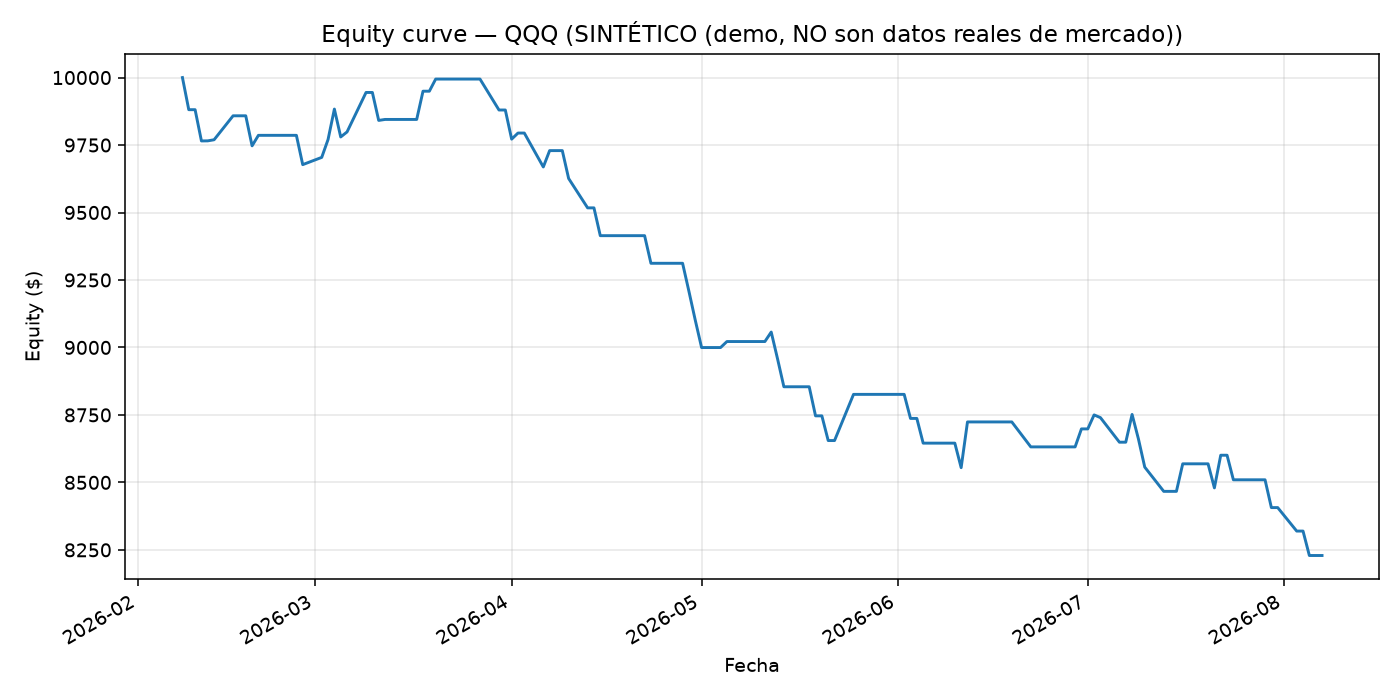
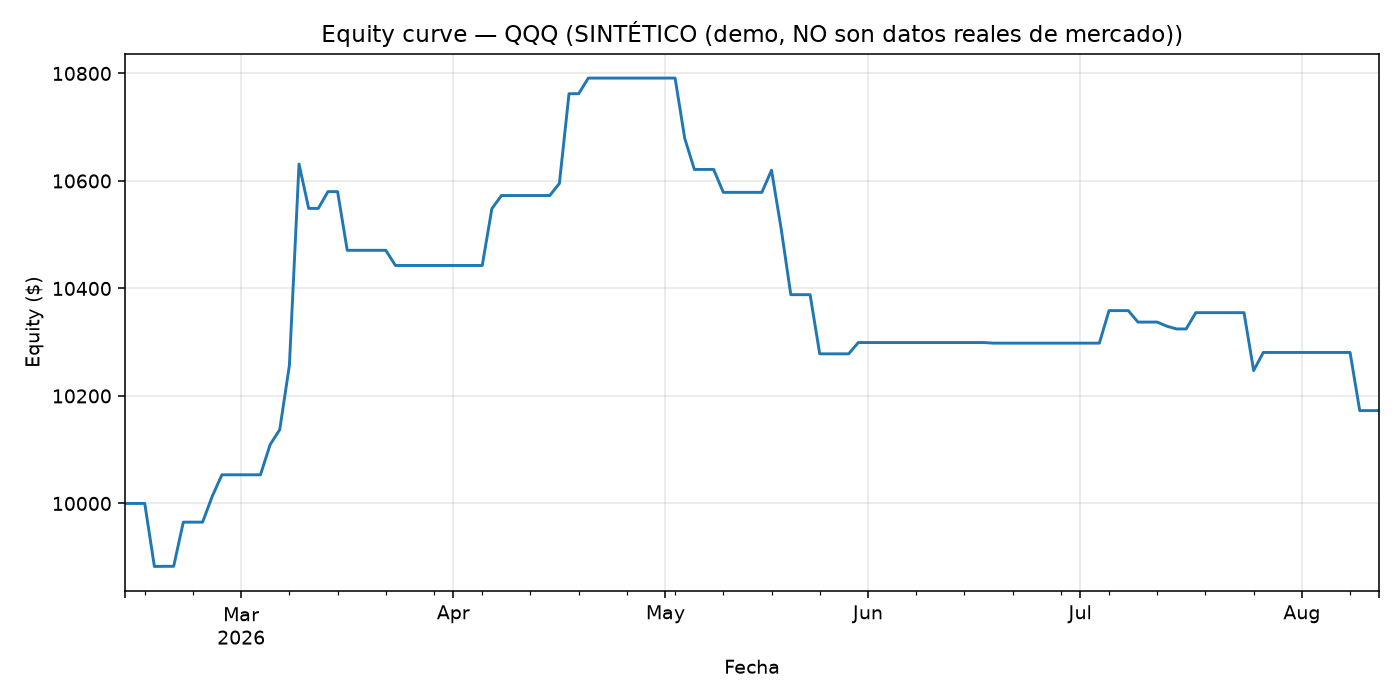
Ajustar ventana operable a las primeras 2 horas de apertura (09:30-11:30 ET)
Config y README actualizados: el usuario extraerá datos solo de las
primeras 2 horas de mercado con su propio script. El motor ya soporta
cualquier rango horario sin cambios de código (restrict_to_session usa
lo que traiga el CSV); solo se ajustó session.close por defecto y se
regeneró el resumen de métricas de demo.

Claude-Session: https://claude.ai/code/session_01P1rnPRzfUiYEpzTc3JBMAV

diff --git a/results/metrics_summary.md b/results/metrics_summary.md
@@ -2,24 +2,24 @@
 
 Fuente de datos: SINTÉTICO (demo, NO son datos reales de mercado)
 
-Ticker: QQQ | Intervalo: 5m | Rango: 2026-02-09 09:30:00-05:00 -> 2026-08-07 15:55:00-04:00
+Ticker: QQQ | Intervalo: 5m | Rango: 2026-02-13 09:30:00-05:00 -> 2026-08-13 15:55:00-04:00
 
 | Métrica | Valor |
 |---|---|
-| num_trades | 57 |
+| num_trades | 35 |
 | starting_equity | 10000.0 |
-| ending_equity | 8229.08 |
-| total_return_pct | -17.71 |
-| cagr_pct | -32.67 |
-| win_rate_pct | 40.35 |
-| profit_factor | 0.47 |
-| avg_win | 68.77 |
-| avg_loss | -98.61 |
-| expectancy_R | -0.337 |
-| avg_r_multiple | -0.337 |
-| max_drawdown_pct | -17.71 |
-| sharpe_ratio | -3.498 |
-| sortino_ratio | -4.206 |
-| avg_trade_duration_min | 34.9 |
-| long_trades | 34 |
-| short_trades | 23 |
+| ending_equity | 10172.76 |
+| total_return_pct | 1.73 |
+| cagr_pct | 3.5 |
+| win_rate_pct | 54.29 |
+| profit_factor | 1.15 |
+| avg_win | 69.22 |
+| avg_loss | -71.4 |
+| expectancy_R | 0.053 |
+| avg_r_multiple | 0.053 |
+| max_drawdown_pct | -5.73 |
+| sharpe_ratio | 0.466 |
+| sortino_ratio | 0.805 |
+| avg_trade_duration_min | 24.7 |
+| long_trades | 20 |
+| short_trades | 15 |

diff --git a/README.md b/README.md
@@ -33,6 +33,14 @@ basada en swings (highs/lows) más cercanos.
    python scripts/run_backtest.py --csv data/tu_archivo.csv
    ```
 
+   **Nota**: `config/strategy_config.yaml` está configurado para operar
+   solo dentro de las **primeras 2 horas de la apertura de NY (09:30–11:30
+   ET)** — ajusta `session.close` si tu CSV cubre un rango distinto. El
+   motor no necesita el día completo: solo usa las velas dentro de ese
+   rango para el OR, el rompimiento, la confirmación de absorción y el
+   cierre de posición (si no se toca SL/TP antes de las 11:30, se cierra
+   ahí como fin de la ventana operable).
+
 2. **CVD aproximado, no de nivel 2 real**: no tenemos datos de tick/bid-ask,
    así que el volumen delta se aproxima por vela con la fórmula estándar
    `delta = volume * ((close-low)-(high-close)) / (high-low)`. Es la
